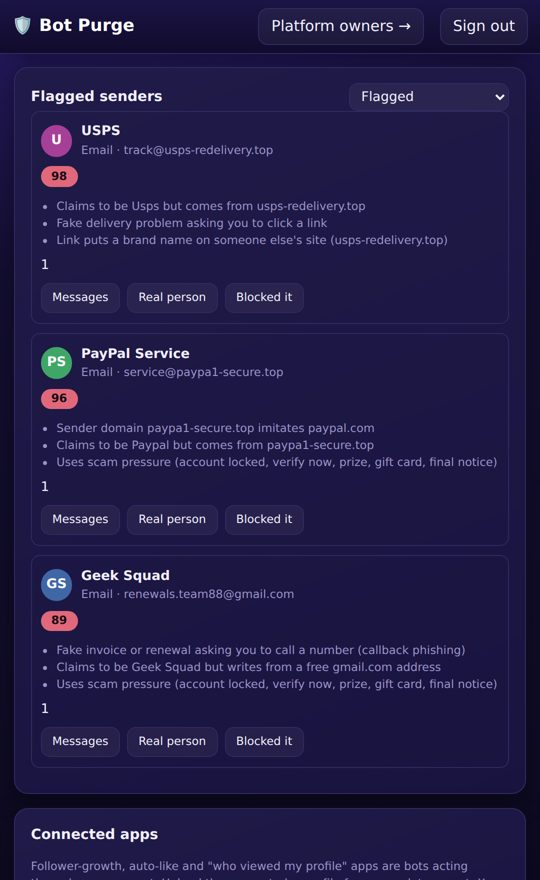
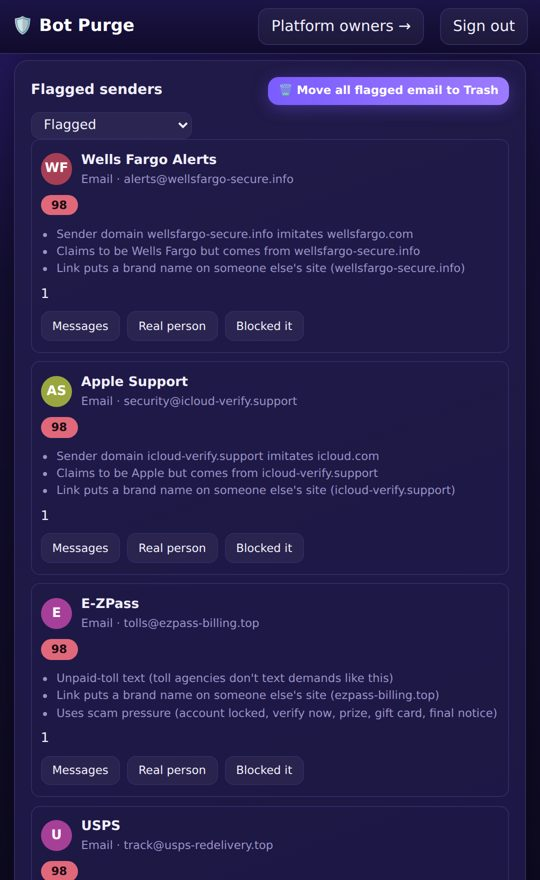
Email cleanup reports what moved and what was already in Spam; README screenshots
Claude-Session: https://claude.ai/code/session_01QhsHDk4jXgCJA9gELHW2uc

Changed region(s): [[0.0, 0.092, 0.9778, 1.0], [0.4741, 0.0614, 0.9481, 0.1227], [0.8593, 0.5216, 0.9185, 0.5523]]

diff --git a/botpurge/web/index.html b/botpurge/web/index.html
@@ -561,7 +561,9 @@ $("mCleanAll").onclick = async () => {
   delete b.dataset.sure; b.disabled = true;
   try { const r = await api("/api/mail/clean", { method: "POST", headers: auth(), body: { to: "trash" } });
     toast(`Moved ${r.moved} emails from ${r.senders} senders to Trash. You can undo it in your mailbox.`, 6000);
-    $("mCleanResult").textContent = `✅ Moved ${r.moved} scam and spam emails from ${r.senders} senders to Trash.`; $("mCleanResult").classList.remove("hidden");
+    $("mCleanResult").textContent = `✅ Moved ${r.moved} scam and spam emails from ${r.senders} senders to Trash.` +
+      (r.already_in_spam ? ` ${r.already_in_spam} more ${r.already_in_spam === 1 ? "was" : "were"} already in Spam.` : "") + " Real mail wasn't touched.";
+    $("mCleanResult").classList.remove("hidden");
     loadInbox(); } catch (e) { paywalled(e); }
   finally { b.disabled = false; b.textContent = "🗑 Move all flagged email to Trash"; }
 };

diff --git a/botpurge/api.py b/botpurge/api.py
@@ -108,10 +108,16 @@ class Services:
         if not links:
             raise ValueError("Connect a mailbox with cleanup allowed first")
         ids: dict[str, list] = {}
+        in_inbox, in_spam = set(), set()
         for r in self.db.q("SELECT sender_id, extra_json FROM msg_items WHERE user_id=? AND kind='email'", (user_id,)):
             h = (json.loads(r["extra_json"] or "{}") or {}).get("headers", {})
-            if r["sender_id"] in want and h.get("x-provider") in links and h.get("x-folder", "Inbox") == "Inbox" and h.get("Message-ID"):
+            if r["sender_id"] not in want or h.get("x-provider") not in links or not h.get("Message-ID"):
+                continue
+            if h.get("x-folder", "Inbox") == "Inbox":
                 ids.setdefault(h["x-provider"], []).append(h["Message-ID"])
+                in_inbox.add(r["sender_id"])
+            else:
+                in_spam.add(r["sender_id"])                       # already out of the way
         moved, errors = {}, {}
         for provider, mids in ids.items():
             try:
@@ -122,7 +128,8 @@ class Services:
             with self.db.tx() as tx:
                 for sid in want:
                     tx.execute("UPDATE msg_senders SET status='removed' WHERE user_id=? AND platform='email' AND sender_id=?", (user_id, sid))
-        return {"moved": sum(moved.values()), "by_mailbox": moved, "senders": len(want), "to": to, "errors": errors}
+        return {"moved": sum(moved.values()), "by_mailbox": moved, "senders": len(in_inbox) if moved else 0,
+                "already_in_spam": len(in_spam - in_inbox), "to": to, "errors": errors}
 
     def refresh_licenses(self) -> int:
         """Once a day, fetch renewed Protect licenses from the store (desktop copies)."""

diff --git a/README.md b/README.md
@@ -10,7 +10,7 @@ It never needs a social media password. X connects through its official sign-in;
 |:-:|:-:|:-:|:-:|
 | <img src="docs/screenshots/01-start.jpg" width="200" alt="Sign up with just an email"><br>**Free scan, no passwords** | <img src="docs/screenshots/02-threats-found.jpg" width="200" alt="Threats found on every network"><br>**Threats found, every network** | <img src="docs/screenshots/03-flagged-accounts.jpg" width="200" alt="Flagged accounts with reasons"><br>**Every flag has reasons** | <img src="docs/screenshots/04-remove-block-report.jpg" width="200" alt="Remove, block or report"><br>**Remove, block or report** |
 | <img src="docs/screenshots/05-step-by-step.jpg" width="200" alt="Step-by-step instructions"><br>**Step by step, or done for you** | <img src="docs/screenshots/06-messages-email-texts.jpg" width="200" alt="Scam messages, emails and texts"><br>**DMs, texts and email** | <img src="docs/screenshots/07-live-guard.jpg" width="200" alt="Live Guard bans giveaway bots"><br>**Live Guard** | <img src="docs/screenshots/08-plans.jpg" width="200" alt="Plans"><br>**Plans: free during beta** |
-| <img src="docs/screenshots/09-select-all.jpg" width="200" alt="Select all flagged accounts"><br>**Select all, delete in one go** | <img src="docs/screenshots/10-removal-queue.jpg" width="200" alt="Every selected account in the removal queue"><br>**One removal list** | <img src="docs/screenshots/11-gmail-yahoo-mail.jpg" width="200" alt="Scam emails from Gmail and Yahoo Mail flagged"><br>**Scam emails flagged** | <img src="docs/screenshots/12-your-agent.jpg" width="200" alt="Talk to your agent and teach it"><br>**Talk to and teach your agent** |
+| <img src="docs/screenshots/09-select-all.jpg" width="200" alt="Select all flagged accounts"><br>**Select all, delete in one go** | <img src="docs/screenshots/10-removal-queue.jpg" width="200" alt="Every selected account in the removal queue"><br>**One removal list** | <img src="docs/screenshots/11-gmail-yahoo-mail.jpg" width="200" alt="Scam emails from Gmail and Yahoo Mail flagged, ready to move to Trash"><br>**Scam email to Trash** | <img src="docs/screenshots/12-your-agent.jpg" width="200" alt="Telling the agent to scan only TikTok followers"><br>**Tell your agent what to scan** |
 
 ## Plans
 
